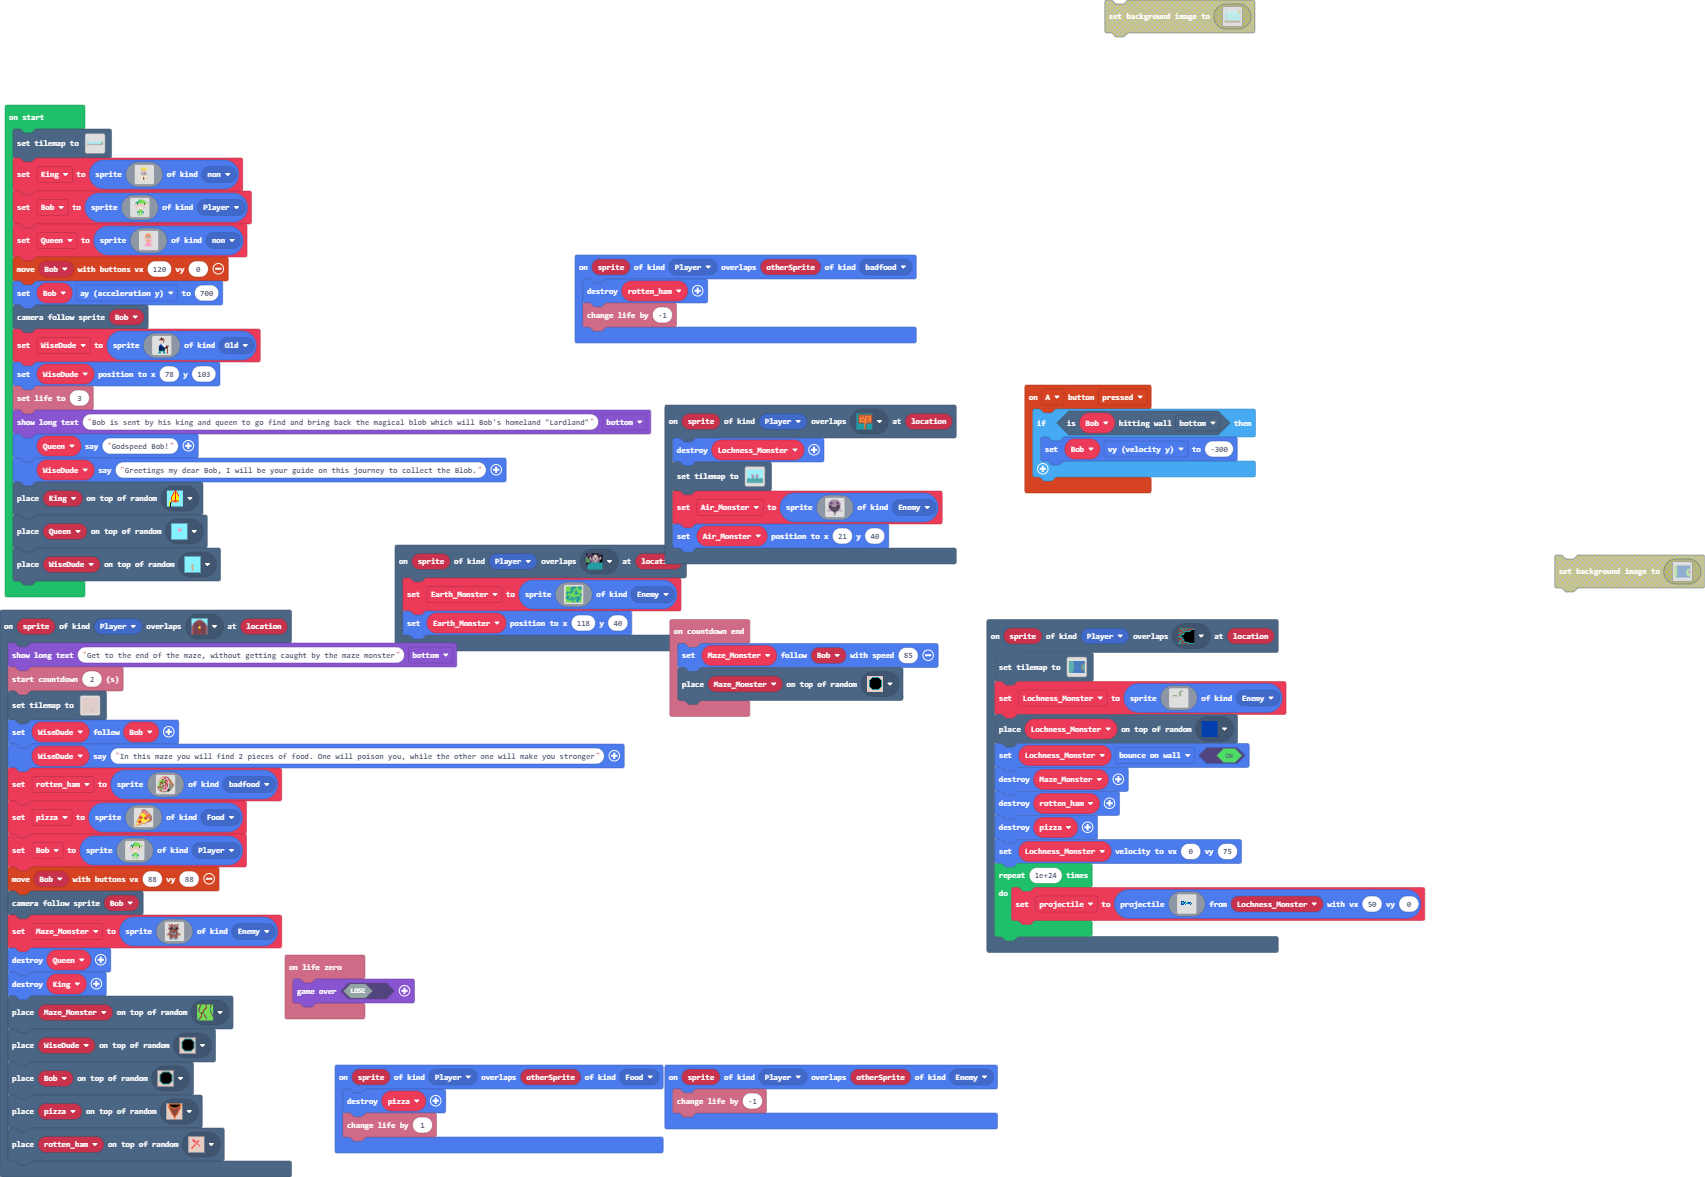
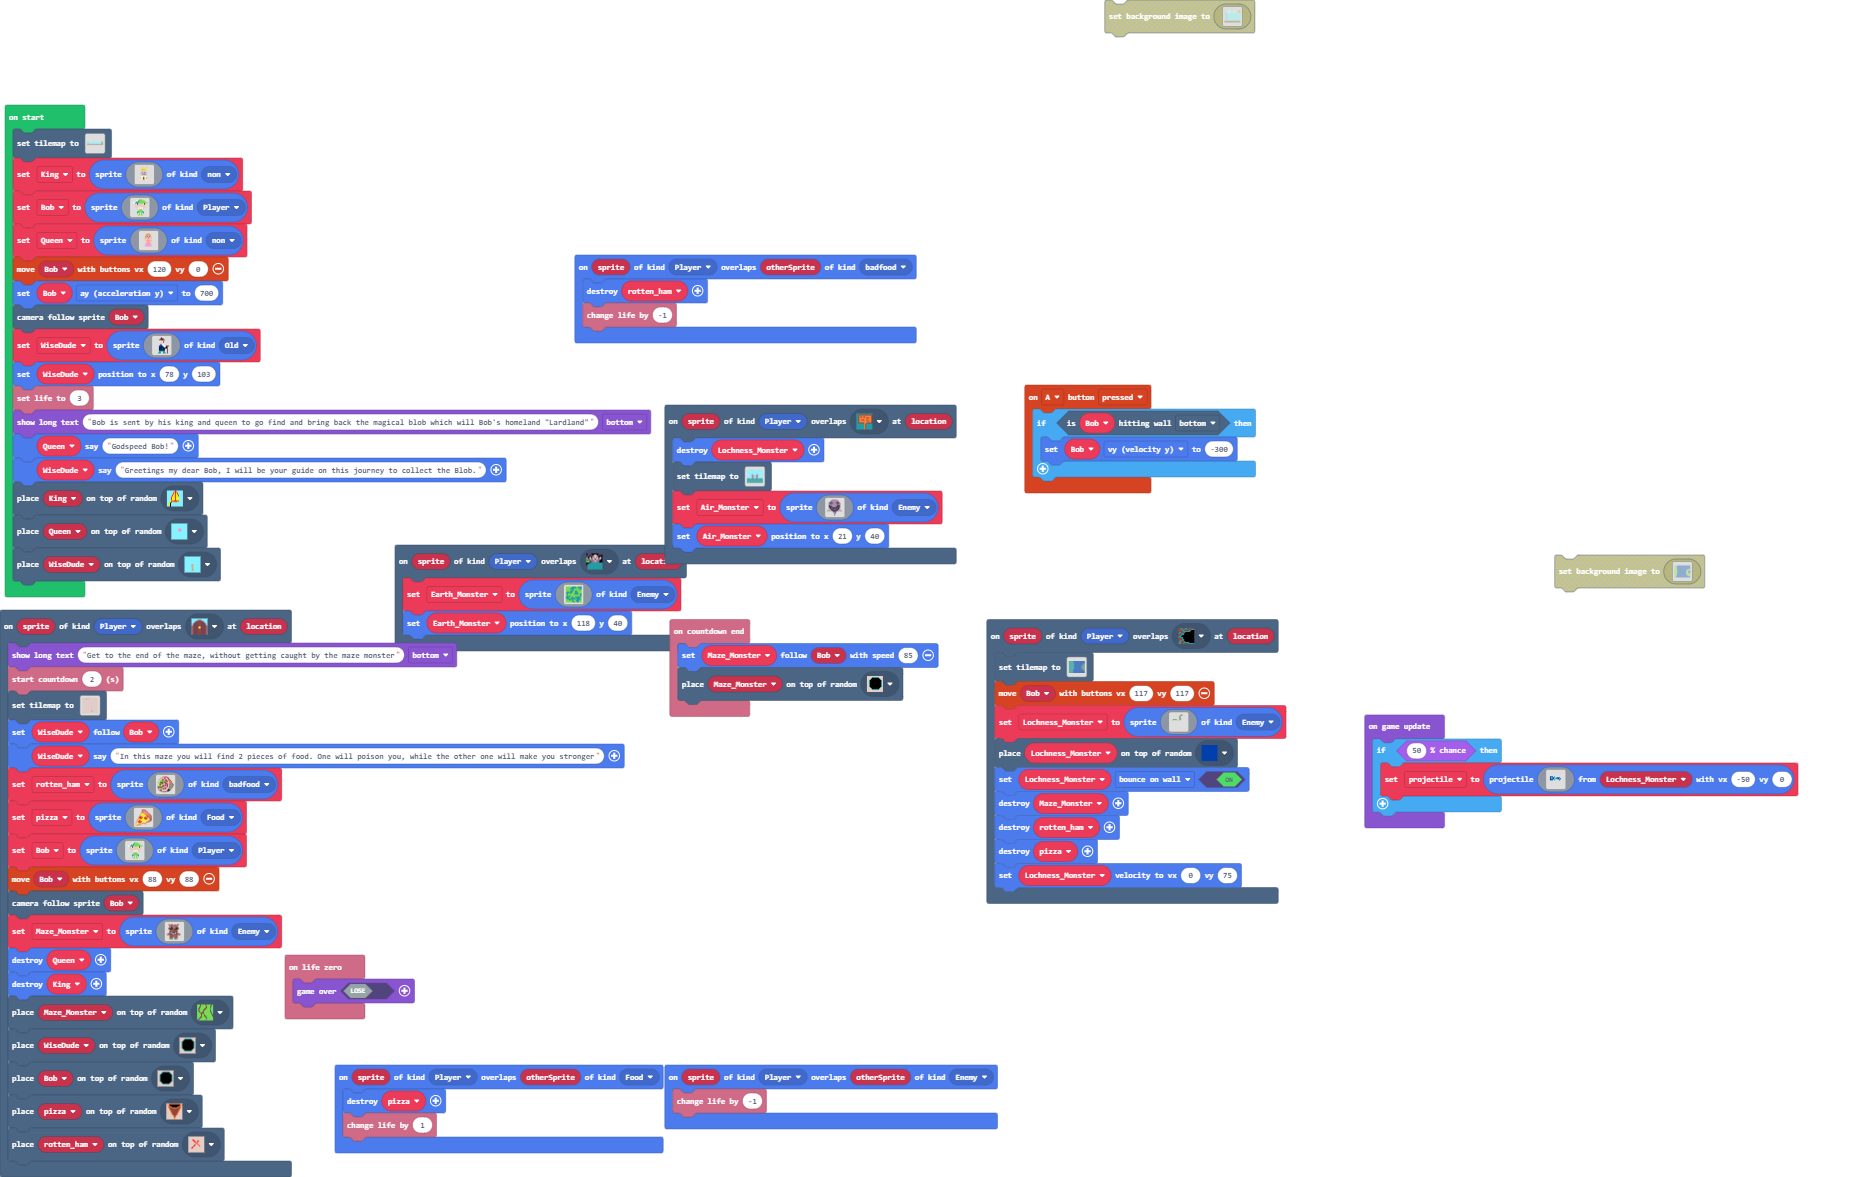
Update main.blocks, main.ts

diff --git a/main.ts b/main.ts
@@ -288,6 +288,7 @@ scene.onOverlapTile(SpriteKind.Player, myTiles.tile17, function (sprite, locatio
         ........................................
         ........................................
         `, [myTiles.transparency16,sprites.castle.tileDarkGrass3,myTiles.tile22,myTiles.tile23,myTiles.tile32,myTiles.tile33,myTiles.tile34,sprites.castle.tileDarkGrass1,myTiles.tile35,myTiles.tile36,myTiles.tile37,myTiles.tile38,myTiles.tile39,myTiles.tile40,myTiles.tile41,myTiles.tile42,myTiles.tile46], TileScale.Sixteen))
+    controller.moveSprite(Bob, 117, 117)
     Lochness_Monster = sprites.create(img`
         ........................................
         ........................................
@@ -346,26 +347,6 @@ scene.onOverlapTile(SpriteKind.Player, myTiles.tile17, function (sprite, locatio
     rotten_ham.destroy()
     pizza.destroy()
     Lochness_Monster.setVelocity(0, 75)
-    for (let index = 0; index < 1e+24; index++) {
-        projectile = sprites.createProjectileFromSprite(img`
-            . . . . . . . . . . . . . . . . 
-            . . . . . . . . . . . . . . . . 
-            . . . . . . . . . . . . . . . . 
-            . . . . . . . . . . . . . . . . 
-            . . . . . . . . . . . . . . . . 
-            . . 8 8 8 . 6 . . . . . . . . . 
-            . . 8 9 6 8 6 9 6 8 8 8 . . . . 
-            . . 8 6 6 8 9 6 6 6 8 9 8 . . . 
-            . . 8 8 8 . 6 . . . . 8 . . . . 
-            . . . . . . . . . . . . . . . . 
-            . . . . . . . . . . . . . . . . 
-            . . . . . . . . . . . . . . . . 
-            . . . . . . . . . . . . . . . . 
-            . . . . . . . . . . . . . . . . 
-            . . . . . . . . . . . . . . . . 
-            . . . . . . . . . . . . . . . . 
-            `, Lochness_Monster, 50, 0)
-    }
 })
 info.onLifeZero(function () {
     game.over(false)
@@ -511,3 +492,25 @@ WiseDude.say("Greetings my dear Bob, I will be your guide on this journey to col
 tiles.placeOnRandomTile(King, myTiles.tile27)
 tiles.placeOnRandomTile(Queen, myTiles.tile28)
 tiles.placeOnRandomTile(WiseDude, myTiles.tile45)
+game.onUpdate(function () {
+    if (Math.percentChance(50)) {
+        projectile = sprites.createProjectileFromSprite(img`
+            . . . . . . . . . . . . . . . . 
+            . . . . . . . . . . . . . . . . 
+            . . . . . . . . . . . . . . . . 
+            . . . . . . . . . . . . . . . . 
+            . . . . . . . . . . . . . . . . 
+            . . 8 8 8 . 6 . . . . . . . . . 
+            . . 8 9 6 8 6 9 6 8 8 8 . . . . 
+            . . 8 6 6 8 9 6 6 6 8 9 8 . . . 
+            . . 8 8 8 . 6 . . . . 8 . . . . 
+            . . . . . . . . . . . . . . . . 
+            . . . . . . . . . . . . . . . . 
+            . . . . . . . . . . . . . . . . 
+            . . . . . . . . . . . . . . . . 
+            . . . . . . . . . . . . . . . . 
+            . . . . . . . . . . . . . . . . 
+            . . . . . . . . . . . . . . . . 
+            `, Lochness_Monster, -50, 0)
+    }
+})
